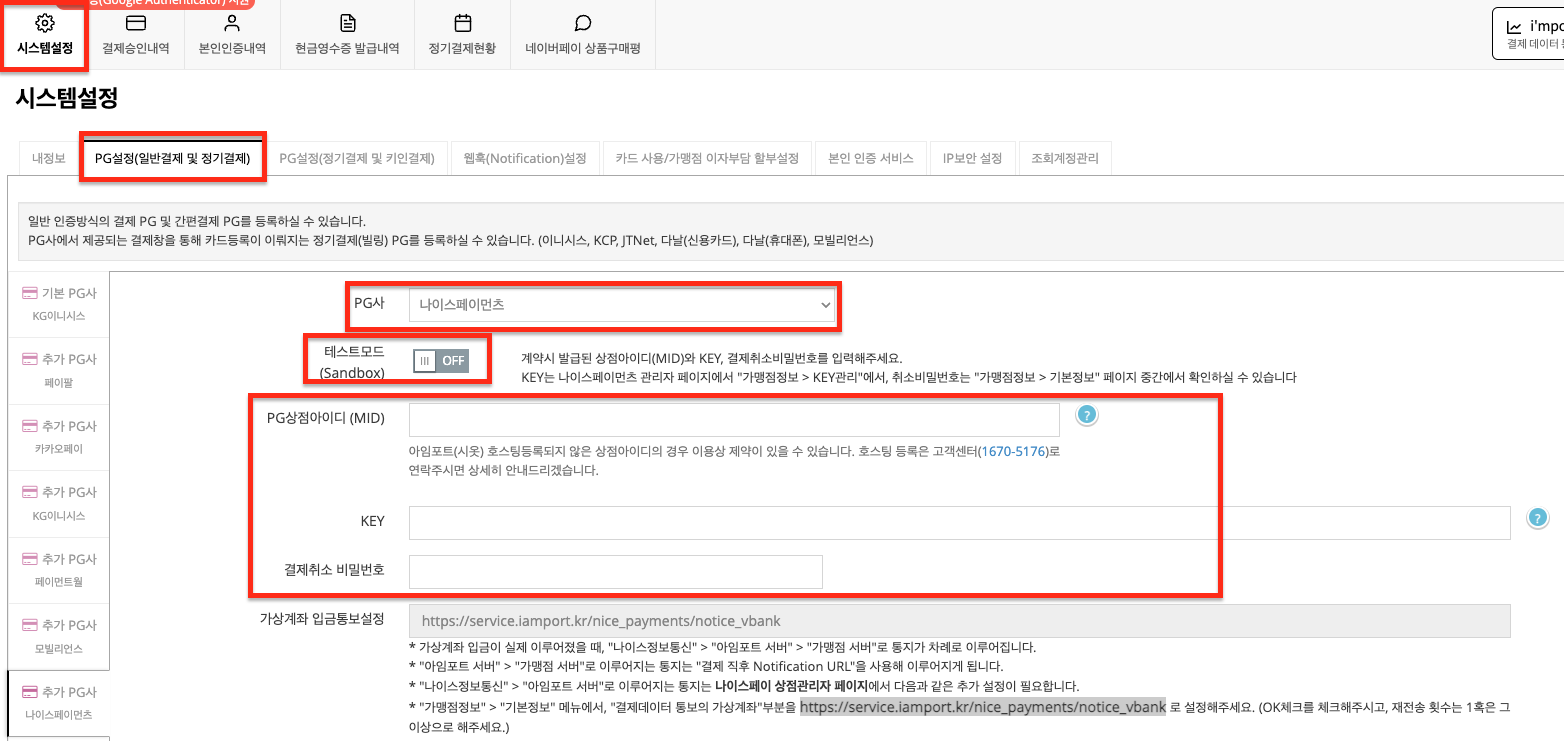
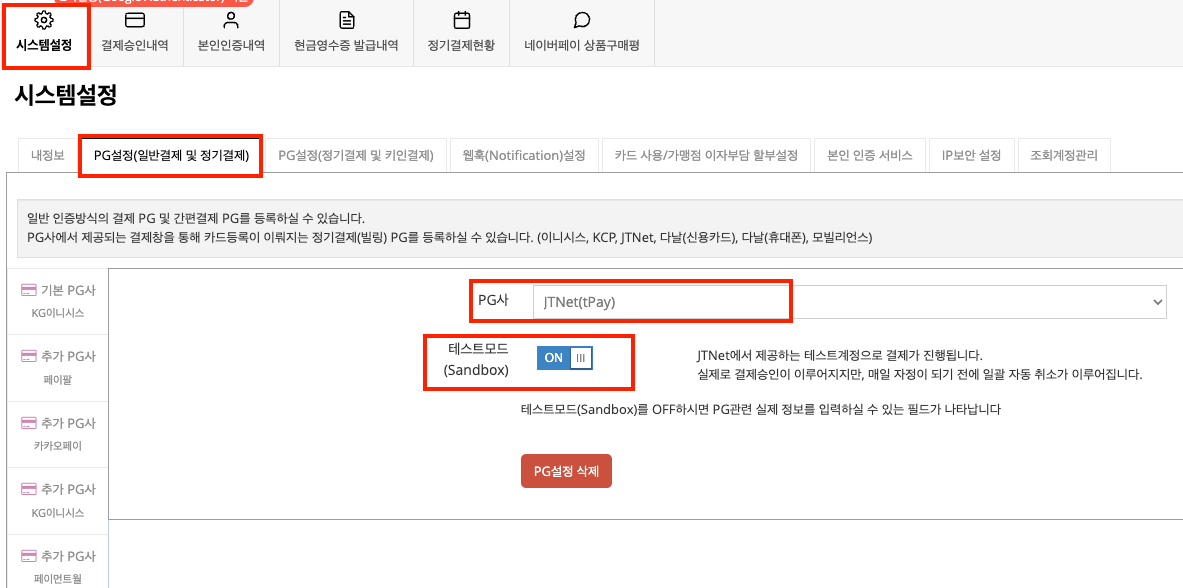
GitBook: [#358] No subject

diff --git a/docs/get-started.md b/docs/get-started.md
@@ -9,7 +9,7 @@ description: 아임포트 온라인 결제를 소개 합니다.
 * 라이브러리 단 두줄 추가로 결제창 연동 준비가 완료됩니다.
 * 개발자라면 누구나 한번쯤은 접해본 JavaScript SDK 를 이용하여 손쉽게 결제창 연동을 마무리 할수 있습니다.
 
-![각 PG사 결제창 화면](<../.gitbook/assets/image (16) (1) (1).png>)
+![각 PG사 결제창 화면](<../.gitbook/assets/image (16) (1) (1) (1).png>)
 
 ### PG사 전환 및 결제수단 변경도 파라미터 값 변경으로 간단하게 처리합니다.
 

diff --git a/undefined/2.-pg/pg/jtnet.md b/undefined/2.-pg/pg/jtnet.md
@@ -21,10 +21,18 @@ description: JTNET PG사 설정 방법을 확인합니다.
 {% endhint %}
 
 
+
+![](<../../../.gitbook/assets/image (20).png>)
 {% endtab %}
 
 {% tab title="실결제" %}
+### **실** 환경 구성방법
 
+카드사 심사 완료 후 JTNet에서 발급받은 실상점 정보를 **테스트모드 **<mark style="color:red;">**OFF**</mark> 처리 이후 설정합니다.
+
+
+
+![](<../../../.gitbook/assets/image (16).png>)
 {% endtab %}
 {% endtabs %}
 

diff --git a/undefined/2.-pg/pg/nhn-kcp.md b/undefined/2.-pg/pg/nhn-kcp.md
@@ -64,7 +64,7 @@ KCP 계약이후 발급받은 실 사이트코드 정보를 입력합니다.&#x2
 
 배치 결제 그룹아이디 입력은 [**링크**](https://www.iamport.kr/download/kcp-billing.pdf)를 클릭하여 자세한 내용을 확인할 수 있습니다.
 
-![실 계정 화면 설정 예시](<../../../.gitbook/assets/image (16).png>)
+![실 계정 화면 설정 예시](<../../../.gitbook/assets/image (16) (1).png>)
 {% endtab %}
 {% endtabs %}
 

diff --git a/undefined/2.-pg/pg/undefined.md b/undefined/2.-pg/pg/undefined.md
@@ -37,7 +37,7 @@ description: 나이스페이먼츠 인증결제 및 비 인증 결제 설정 방
 
 카드사 심사 완료 후 나이스페이먼츠에서 발급받은 실 상점 정보를 설정 합니다.
 
-![화면 설정 예시](<../../../.gitbook/assets/image (20).png>)
+![화면 설정 예시](<../../../.gitbook/assets/image (20) (1).png>)
 
 {% hint style="info" %}
 **가상게좌 사용시 주의사항**
